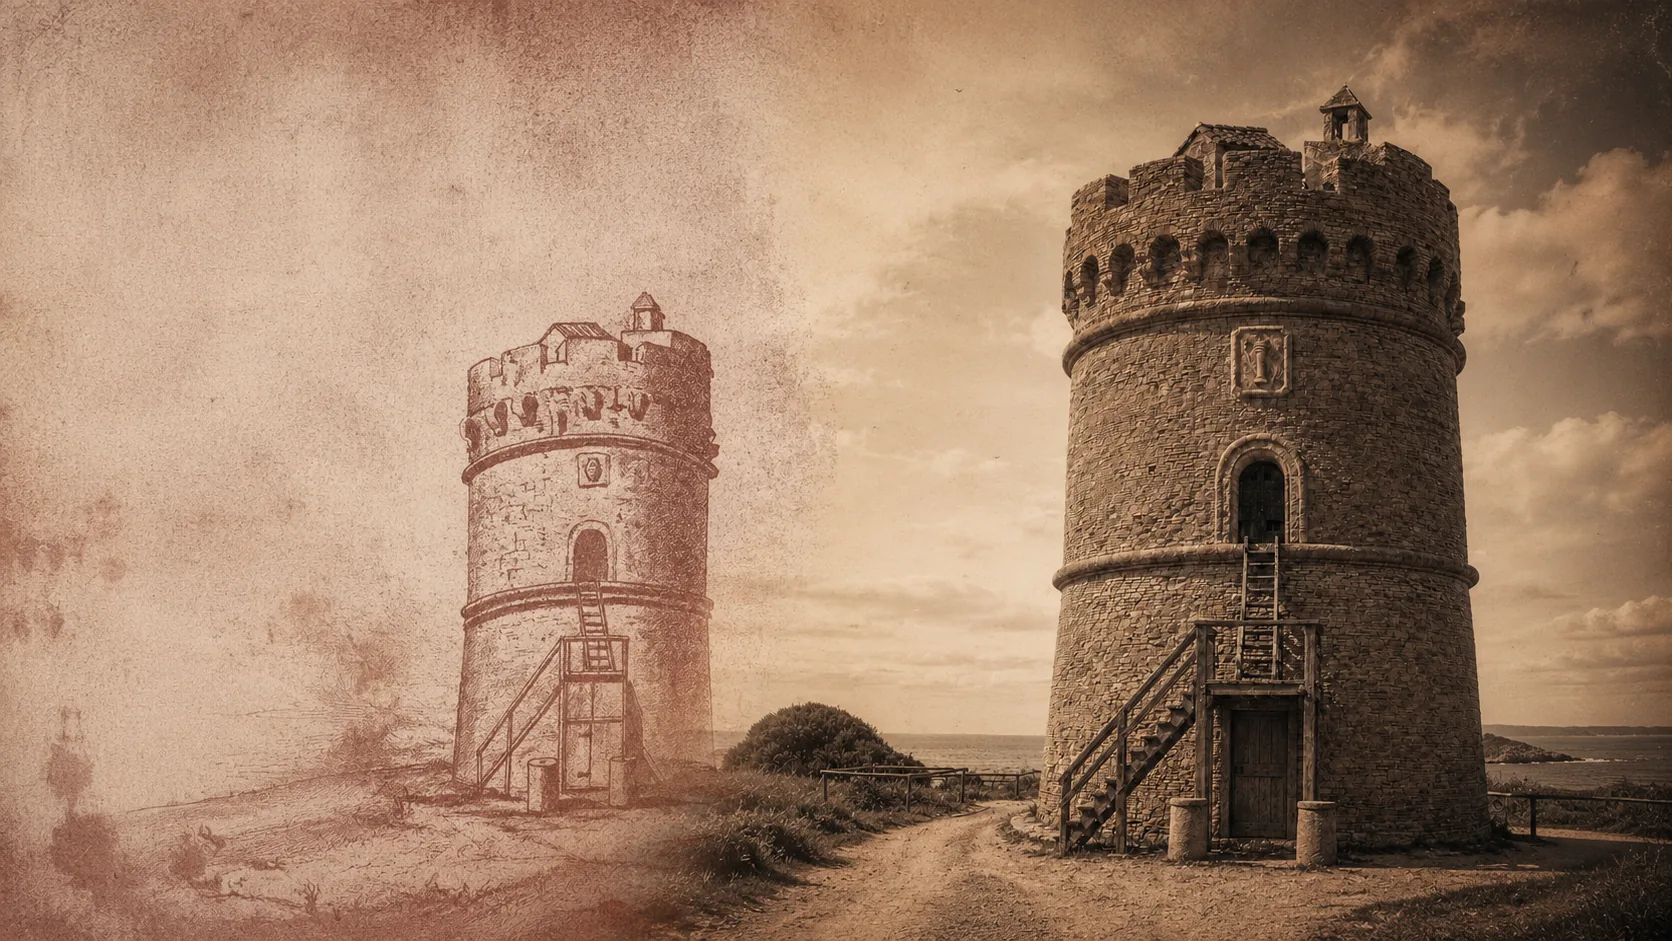
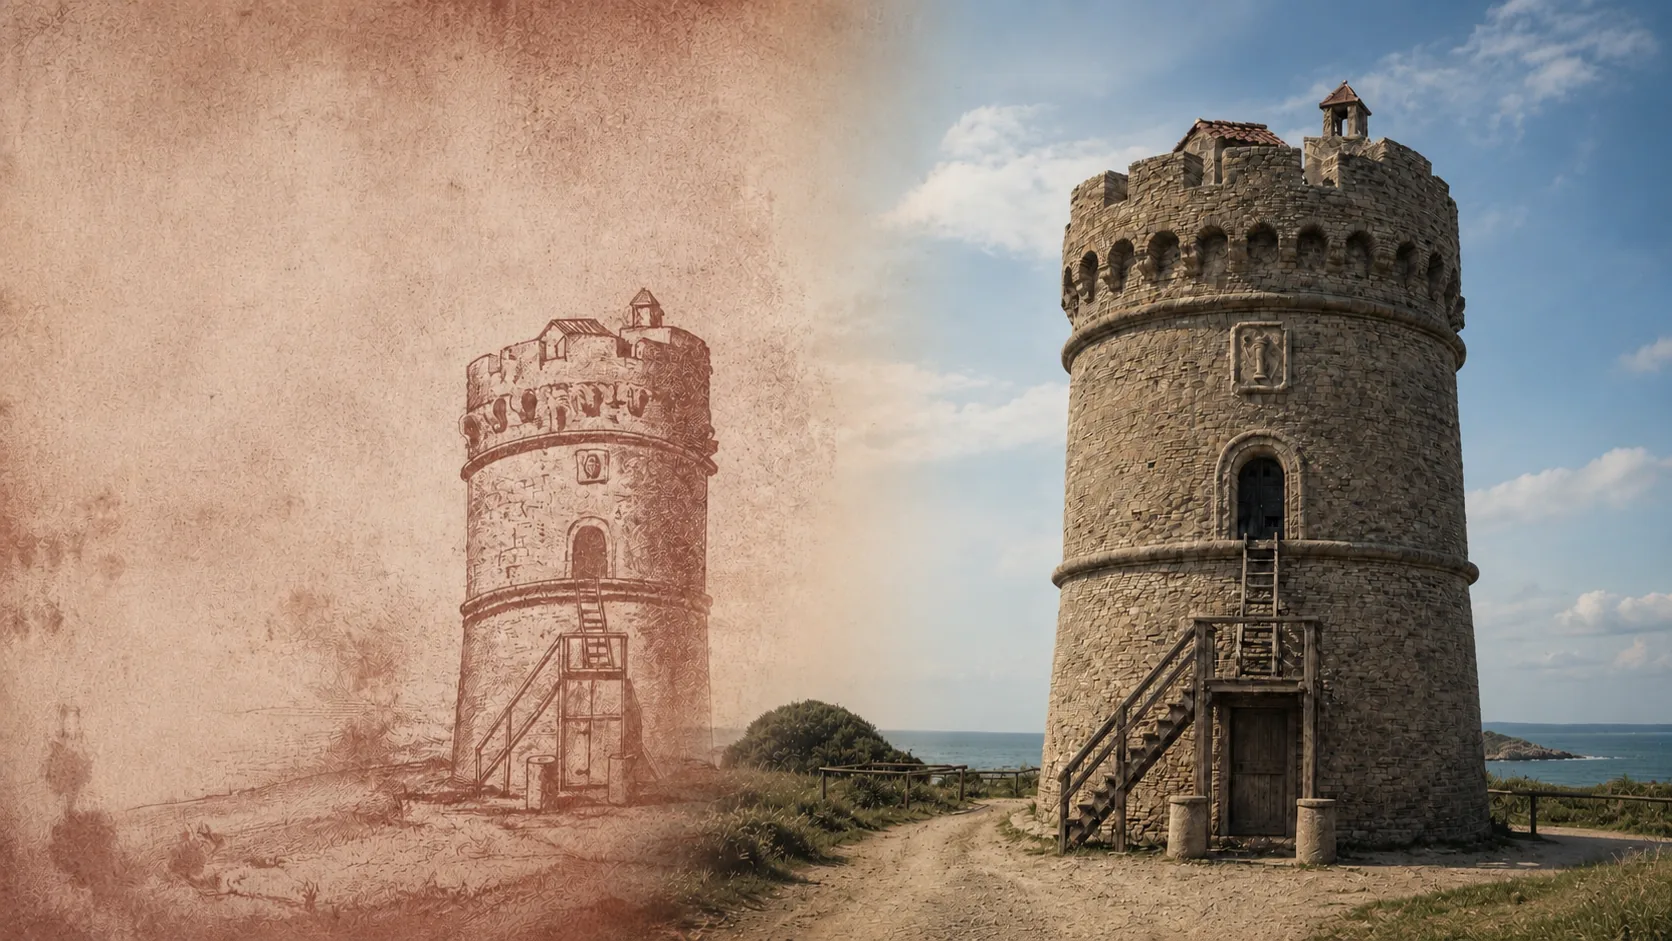
Tor Caldara: hero rielaborato da Riccardo Pau (#77)
* CLAUDE.md: rimuovi contenuti obsoleti, contraddittori e duplicati

* Lemmi: aggiungi voci mancanti ipogeo, strigili, gentilizio (tomba Mulakia)

* CLAUDE.md: merge in produzione sempre obbligatorio, priorita operativita

* Lemmi: cache-busting su lemmi.js per evitare popup vuoti dopo deploy

* Lemmi: voce mancante amigdala + verifica obbligatoria in CLAUDE.md

* Sezioni: colonna unica sempre, niente layout a due colonne (testo + curiosita)

* Lemmi: evidenziazione con sfondo dorato e testo quasi nero

* Lemmi: sfondo piu chiaro e peso normale (niente grassetto)

* Tor Caldara: disegno della torre (Miselli 1691) con crediti grafici

* Tor Caldara: hero con la composizione disegno-ricostruzione della torre

* fonti.html: rimuovi riga credito Miselli duplicata dal merge

* Tor Caldara: hero rielaborato da Riccardo Pau; rimosse immagini precedenti

---------

diff --git a/fonti.html b/fonti.html
@@ -403,9 +403,9 @@
               </thead>
               <tbody>
                 <tr>
-                  <td><button class="credit-preview" type="button" data-credit-image="./img/tor-caldara-heroe.webp" data-credit-title="Tor Caldara · La torre delle Caldane, dal disegno alla ricostruzione" data-credit-note="Gruppo FAI Anzio-Nettuno. Composizione usata come sfondo del hero della sezione Tor Caldara: il disegno storico (da Miselli 1691) che sfuma nella ricostruzione della torre." data-credit-source="./img/tor-caldara-heroe.webp" data-credit-source-label="Apri file immagine">Tor Caldara · La torre delle Caldane, dal disegno alla ricostruzione</button></td>
-                  <td>Gruppo FAI Anzio-Nettuno</td>
-                  <td>Composizione usata come sfondo del hero: il disegno storico (da Miselli 1691) che sfuma nella ricostruzione della torre.</td>
+                  <td><button class="credit-preview" type="button" data-credit-image="./img/tor-caldara-heroe.webp" data-credit-title="Tor Caldara · La torre delle Caldane, dal disegno alla ricostruzione" data-credit-note="Riccardo Pau. Elaborazione grafica del disegno storico della torre (da Miselli 1691), usata come sfondo del hero della sezione Tor Caldara." data-credit-source="./img/tor-caldara-heroe.webp" data-credit-source-label="Apri file immagine">Tor Caldara · La torre delle Caldane, dal disegno alla ricostruzione</button></td>
+                  <td>Riccardo Pau</td>
+                  <td>Elaborazione grafica del disegno storico della torre (da Miselli 1691), usata come sfondo del hero.</td>
                 </tr>
                 <tr>
                   <td><button class="credit-preview" type="button" data-credit-image="./img/torre-caldara-miselli-1691.webp" data-credit-title="Tor Caldara · La torre delle Caldane (disegno, 1691)" data-credit-note="G. Miselli, 1691. Disegno architettonico storico della torre delle Caldane, riprodotto «da Miselli 1691»." data-credit-source="./img/torre-caldara-miselli-1691.webp" data-credit-source-label="Apri file immagine">Tor Caldara · La torre delle Caldane (disegno, 1691)</button></td>
